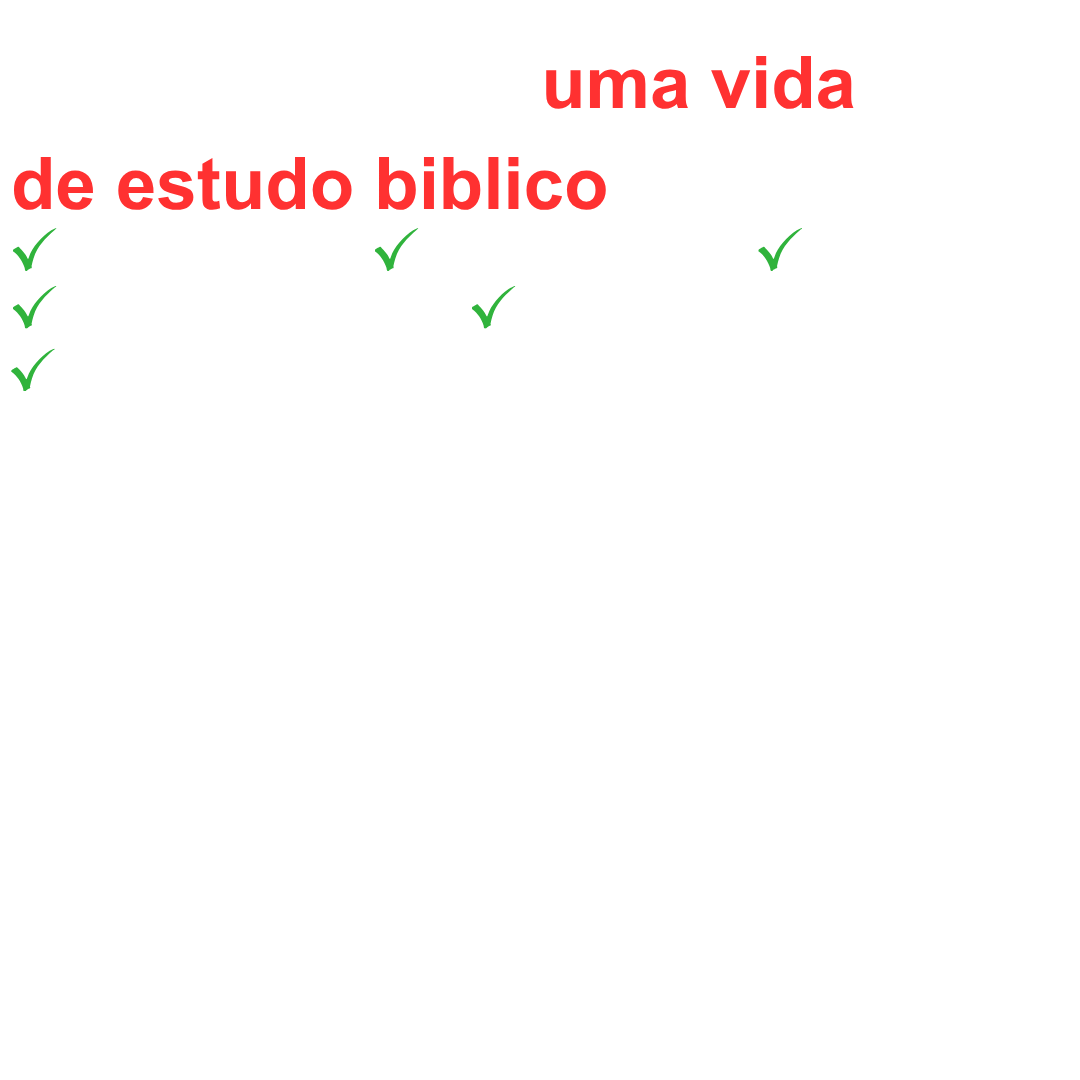
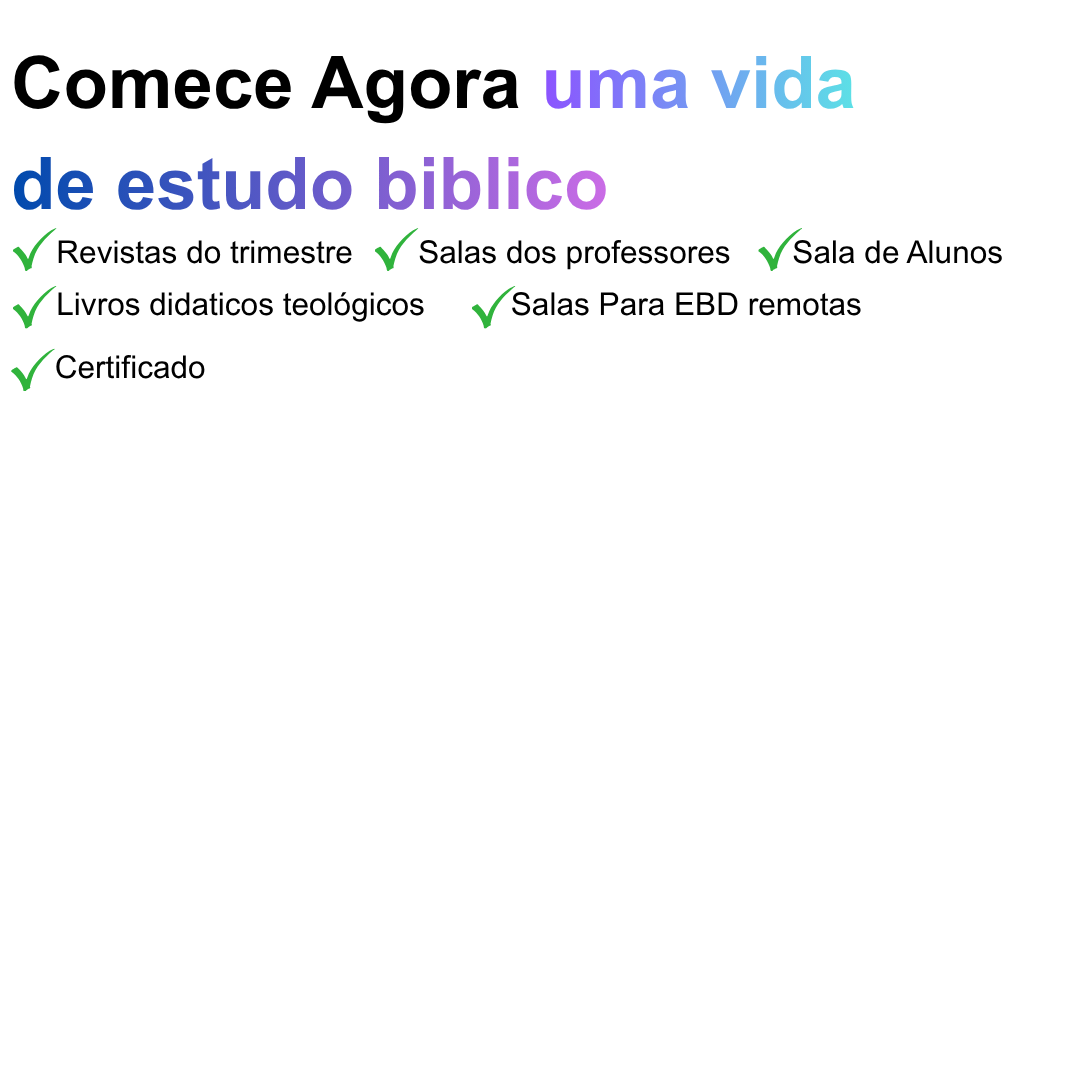
editei o designer do cadrastro professor

diff --git a/html/css/style.css b/html/css/style.css
@@ -1,5 +1,5 @@
  body {
-            background: linear-gradient(135deg, #2bd6e6b4 0%, #1e9f97 100%);
+            background: linear-gradient(135deg, #fffffffb 0%, #0effef 100%);
             height: 100vh;
             display: flex;
             align-items: center;
@@ -34,8 +34,8 @@
             color: rgba(255, 23, 23, 0.812);
             font-size: large;
             position: absolute;
-            left: 20px;
-            top: 1px;
+            left: 145px;
+            top: 110px;
             text-decoration: none;
             
         }
@@ -48,10 +48,11 @@
             font-size: 20px;
             font-family: 'Gill Sans', 'Gill Sans MT', Calibri, 'Trebuchet MS', sans-serif;
             border-radius: 10px;
-            background-color: rgb(252, 19, 19);
+            background: linear-gradient(135deg, #34827acf 0%, #0effef 100%);
             color: white;
+            transition:all  0.5s ease-in-out ;
         }
         .botão-login:hover{
-            background-color: yellow;
-
+            background-color: rgb(146, 146, 1);
+            transform: scale(1.1);
         }

diff --git a/html/login.html b/html/login.html
@@ -11,6 +11,7 @@
     
 </head>
 <body>
+    
 <!--Organização do cabeçalho do site as navegações na arte superior do site-->
 <header>
 <div class="cabecalho">
@@ -33,7 +34,7 @@
         </div>
         
         <img class="imagem-inicial" src="Imagens/Texto inicial.png" alt="">  <!-- Imagem de inicio do site -->
-        <button class="botão-login" >Instruções</button>
+        <button class="botão-login" >Inicio</button><!--Botão do site para ver informações adicionais do site-->
         <form action="/login" method="POST">
             <div class="field">
                 <label class="label">E-mail</label>